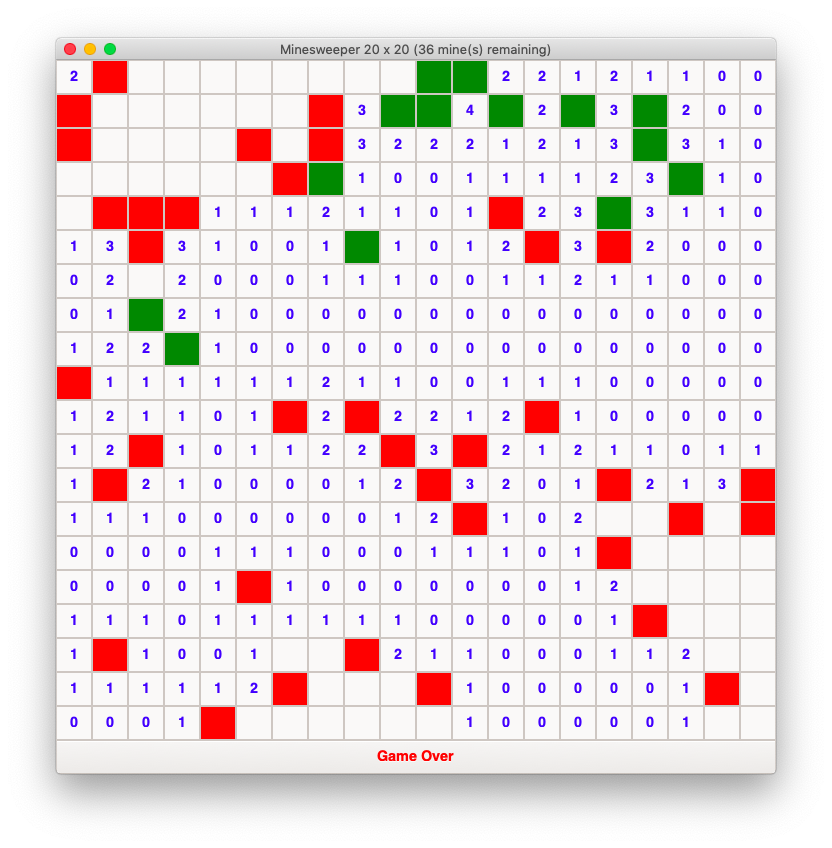
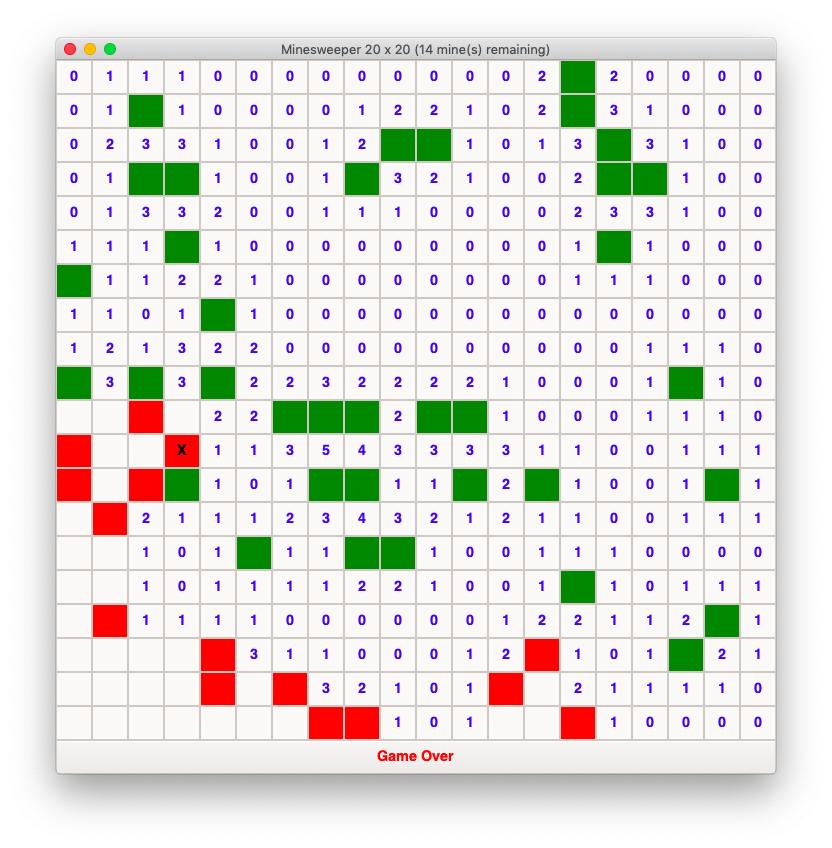
reveal MINE stepped on

diff --git a/gui/gui.c b/gui/gui.c
@@ -23,6 +23,7 @@ static void update_markup(GtkWidget *button, const char *colour, const gchar *la
 
 void click(GtkWidget *widget, GdkEventButton *event, gpointer user_data) {
 	struct args *data = (struct args *)user_data;
+	int index = (data->y - 1) * data->b->width + data->x - 1;
 
 	if (event->type == GDK_BUTTON_PRESS && event->button == LEFT_CLICK) {
 		// left click = reveal
@@ -31,6 +32,13 @@ void click(GtkWidget *widget, GdkEventButton *event, gpointer user_data) {
 		int grid_size = data->b->width * data->b->height;
 
 		if (reveal(data->b, data->x, data->y)) {
+			// if we just stepped on a MINE, reveal it
+			if (data->b->grid[index] == MINE) {
+				gchar *label_text = g_strdup_printf("%c", data->b->grid[index]);
+				update_markup(buttons[index], "black", label_text);
+				g_free(label_text);
+			}
+
 			// since reveal is recursive, we may need to update the entire grid
 			for (int i = 0; i < grid_size; i++) {
 				// first make the revealed cells unclickable
@@ -43,7 +51,7 @@ void click(GtkWidget *widget, GdkEventButton *event, gpointer user_data) {
 					gtk_widget_set_name(buttons[i], "mine");
 				} else if (data->b->grid[i] == FLAG) {
 					gtk_widget_set_name(buttons[i], "flag");
-				} else {
+				} else if (data->b->grid[i] != UNREVEALED) {
 					gchar *label_text = g_strdup_printf("%c", data->b->grid[i]);
 					update_markup(buttons[i], "blue", label_text);
 					g_free(label_text);
@@ -53,7 +61,7 @@ void click(GtkWidget *widget, GdkEventButton *event, gpointer user_data) {
 
 		// check for game over -> update quit button markup and make buttons unclickable
 		if (game_won(data->b)) {
-			update_markup(quit_button, "green", "Well done!");
+			update_markup(quit_button, "green", "Well Done");
 
 			for (int i = 0; i < grid_size; i++) {
 				gtk_widget_set_sensitive(buttons[i], FALSE);
@@ -74,14 +82,12 @@ void click(GtkWidget *widget, GdkEventButton *event, gpointer user_data) {
 		g_signal_connect((GtkButton *)widget, "button-press-event", G_CALLBACK(flag), data);
 
 		if (flag(data->b, data->x, data->y)) {
-			int i = (data->y - 1) * data->b->width + data->x - 1;
-
 			// first add markup
-			if (data->b->grid[i] == FLAG) {
-				gtk_widget_set_name(buttons[i], "flag");
+			if (data->b->grid[index] == FLAG) {
+				gtk_widget_set_name(buttons[index], "flag");
 				mines_remaining--;
 			} else {
-				gtk_widget_set_name(buttons[i], "none");
+				gtk_widget_set_name(buttons[index], "none");
 				mines_remaining++;
 			}
 
@@ -144,7 +150,7 @@ void activate(GtkApplication *app, gpointer user_data) {
 		b->width, b->height, mines_remaining);
 	gtk_window_set_title(GTK_WINDOW(window), title);
 
-	// add CSS button colours: MINE = red, FLAG = green, none = none
+	// add CSS button properties
 	GtkCssProvider *provider = gtk_css_provider_new();
 	GdkDisplay *display = gdk_display_get_default();
 	GdkScreen *screen = gdk_display_get_default_screen(display);
